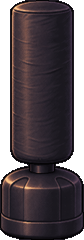
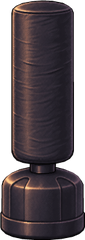
BOB animado com a imagem recortada enviada
Claude-Session: https://claude.ai/code/session_01HXNLdPa6jqkq51q5LfzTTd

diff --git a/index.html b/index.html
@@ -185,7 +185,7 @@ const ROSTER=[
  {nome:'GUITAR-MAN',real:true,hit:{soco:{x:11,y:-50,w:22,h:13},direto:{x:11,y:-50,w:22,h:13},chute:{x:14,y:-46,w:22,h:13},lateral:{x:20,y:-47,w:22,h:13},giro:{x:14,y:-59,w:22,h:13},passo:{x:14,y:-46,w:22,h:13},aereo:{x:8,y:-36,w:26,h:28}},spr:{idle:['guitar-idle.webp',69.8,1.0],anda:['guitar-anda.webp',79.2,0.971],anda2:['guitar-idle2.webp',77.2,0.992],soco:['guitar-soco.webp',97.8,0.979],guarda:['guitar-guarda.webp',78.5,0.988],chute:['guitar-chute.webp',45.5,0.988],meio:['guitar-meio.webp',58.5,0.988],alto:['guitar-alto.webp',70.5,1.004]},faixa:'#d8d020',pele:'#e0b48e',cabelo:'#1a120d',estilo:'coque'},
  {nome:'GUILHERMINO',tam:0.85,real:true,hit:{soco:{x:10,y:-51,w:22,h:13},direto:{x:10,y:-50,w:22,h:13},chute:{x:12,y:-49,w:22,h:13},lateral:{x:17,y:-46,w:22,h:13},giro:{x:9,y:-58,w:22,h:13},passo:{x:12,y:-49,w:22,h:13},aereo:{x:8,y:-36,w:26,h:28}},spr:{idle:['guilhermino-idle.webp',72.2,1.0],anda:['guilhermino-anda.webp',82.8,0.958],anda2:['guilhermino-pe.webp',60.8,0.967],soco:['guilhermino-soco.webp',75.8,0.988],direto:['guilhermino-direto.webp',78.0,0.975],junta:['guilhermino-junta.webp',41.0,0.971],chute:['guilhermino-chute.webp',61.5,0.979],meio:['guilhermino-meio.webp',56.0,0.958],alto:['guilhermino-alto.webp',82.0,0.958],guarda:['guilhermino-guarda.webp',79.5,0.988],leva:['guilhermino-leva.webp',85.0,0.863],ar:['guilhermino-ar.webp',55.8,0.825]},faixa:'#f4f4f4',pele:'#d9a77e',cabelo:'#1a120d',estilo:'curto'},
  {nome:'BOB MISTERIOSO',oculto:true,saco:true,real:true,tam:0.95,spr:{idle:['bob.webp',46.5,1.0]},faixa:'#151515',pele:'#222',cabelo:'#111',estilo:'curto'},
- {nome:'BOB',oculto:true,saco:true,tam:0.95,spr:{idle:['bob-animado.webp',41.5,1.0]},faixa:'#151515',pele:'#222',cabelo:'#111',estilo:'curto'},
+ {nome:'BOB',oculto:true,saco:true,tam:0.95,spr:{idle:['bob-animado.webp',42.0,1.0]},faixa:'#151515',pele:'#222',cabelo:'#111',estilo:'curto'},
 ];
 const LEG=6;
 const CAMX=48,AL=CAMX+14,AR=CAMX+288-14;   // arena = uma tela (cenário fixo)
